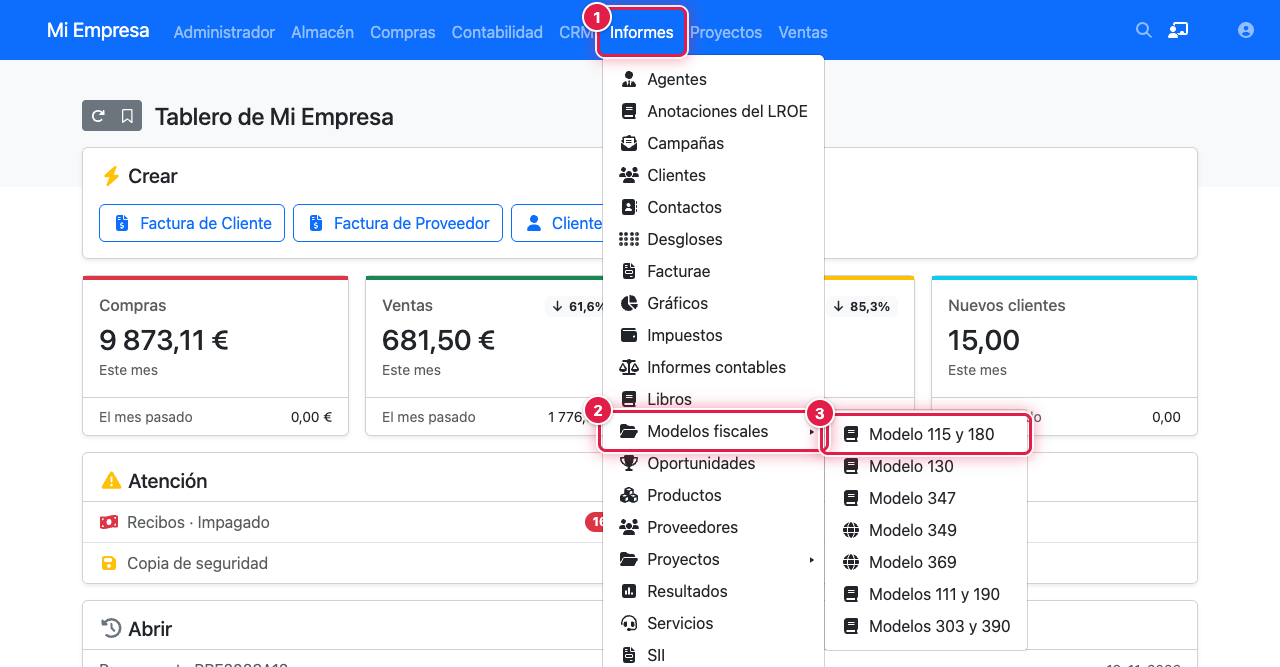
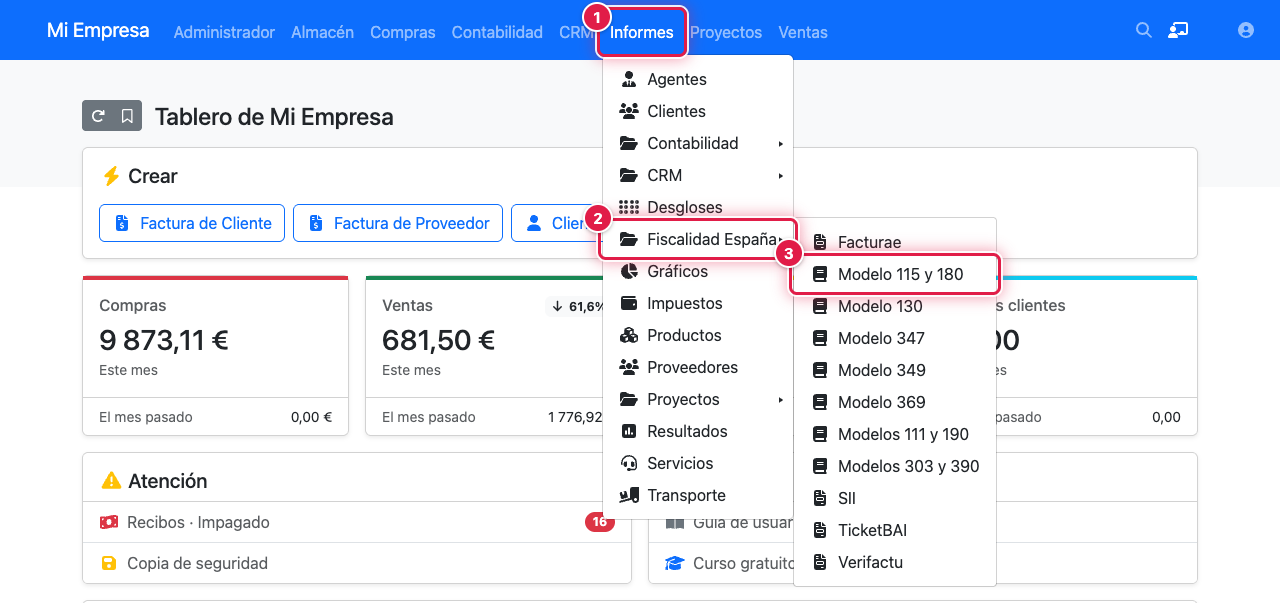
feat(modelo115): mover el informe al submenú Fiscalidad España
- El controlador usa el submenú taxation-spain y se añade su traducción.
- README, documentación y captura del menú nombran Informes → Fiscalidad España.

diff --git a/Controller/Modelo115.php b/Controller/Modelo115.php
@@ -125,7 +125,7 @@ class Modelo115 extends Controller
     }
 
     /**
-     * Datos de la página: menú Informes, submenú de modelos fiscales.
+     * Datos de la página: menú Informes, submenú Fiscalidad España.
      *
      * @return array
      */
@@ -133,7 +133,7 @@ class Modelo115 extends Controller
     {
         $data = parent::getPageData();
         $data['menu'] = 'reports';
-        $data['submenu'] = 'tax-models';
+        $data['submenu'] = 'taxation-spain';
         $data['title'] = 'model-115-180';
         $data['icon'] = 'fa-solid fa-book';
         return $data;

diff --git a/Doc/Dev/api-modelos-115-180.md b/Doc/Dev/api-modelos-115-180.md
@@ -1,4 +1,4 @@
-El plugin Modelo115 expone los datos de los modelos 115 (retenciones trimestrales de alquileres) y 180 (resumen anual) en dos endpoints de solo lectura de la API REST. Calculan con las mismas clases que la pantalla del plugin, así que las cifras coinciden con las que se ven en **menú Informes** → **Modelos fiscales** → **Modelo 115 y 180**. No crean asientos, no guardan datos y no generan los ficheros de la AEAT.
+El plugin Modelo115 expone los datos de los modelos 115 (retenciones trimestrales de alquileres) y 180 (resumen anual) en dos endpoints de solo lectura de la API REST. Calculan con las mismas clases que la pantalla del plugin, así que las cifras coinciden con las que se ven en **menú Informes** → **Fiscalidad España** → **Modelo 115 y 180**. No crean asientos, no guardan datos y no generan los ficheros de la AEAT.
 
 - `GET /api/3/modelo115`: un trimestre. Devuelve el resumen, las casillas y el resultado a ingresar.
 - `GET /api/3/modelo180`: el año completo. Devuelve el resumen, tres casillas y el detalle por arrendador e inmueble. Es una declaración informativa y su `resultado` es `null`.

diff --git a/README.md b/README.md
@@ -2,7 +2,7 @@
 Plugin para FacturaScripts con los modelos 115 y 180 para la hacienda española.
 - https://facturascripts.com/plugins/modelo115
 
-Muestra los datos de ambos modelos desde el menú **Informes → Modelos fiscales → Modelo 115 y 180**, con el detalle de las facturas del periodo, totales, impresión en PDF y descarga del fichero de presentación de la AEAT (.115 en los trimestres y del 180 en el anual).
+Muestra los datos de ambos modelos desde el menú **Informes → Fiscalidad España → Modelo 115 y 180**, con el detalle de las facturas del periodo, totales, impresión en PDF y descarga del fichero de presentación de la AEAT (.115 en los trimestres y del 180 en el anual).
 
 Solo se incluyen en el cálculo las facturas cuya retención se contabiliza en una subcuenta con la cuenta especial **IRPFA** (IRPF para alquileres); las retenciones de profesionales y trabajadores corresponden al modelo 111 y quedan fuera. Si el ejercicio no tiene ninguna subcuenta IRPFA, se incluyen todas las facturas con retención.
 

diff --git a/Doc/User/como-hacer-el-modelo-115.md b/Doc/User/como-hacer-el-modelo-115.md
@@ -15,10 +15,10 @@ Si no ves el menú del paso 3 de la sección siguiente, activa el plugin Modelo1
 ## 📋 Cómo se rellena
 
 1. Pulsa el menú **Informes**.
-2. Pasa el ratón por **Modelos fiscales**.
+2. Pasa el ratón por **Fiscalidad España**.
 3. Elige **Modelo 115 y 180**.
 
-![Menú Informes con el submenú Modelos fiscales y la opción Modelo 115 y 180 marcada](../Assets/como-hacer-el-modelo-115/01-menu-modelo-115-y-180.png)
+![Menú Informes con el submenú Fiscalidad España y la opción Modelo 115 y 180 marcada](../Assets/como-hacer-el-modelo-115/01-menu-modelo-115-y-180.png)
 
 Ahora elige qué declaración quieres ver. Al abrir la pantalla aparecen el ejercicio del año en curso y el trimestre en curso.
 

diff --git a/Doc/Context/01-arquitectura.md b/Doc/Context/01-arquitectura.md
@@ -21,7 +21,7 @@ Piezas:
   avisos (claves de traducción con parámetros).
 - `Lib/Modelo115ApiTrait` y `Lib/Modelo115FileTrait`: código común de las dos APIs (empresa, ejercicio, retención,
   facturas, avisos, formato de fechas e importes) y de los dos ficheros (formato de campos de la AEAT).
-- `Controller/Modelo115`: pantalla en Informes > Modelos fiscales. Acciones `print` (PDF), `download` (.115) y
+- `Controller/Modelo115`: pantalla en Informes > Fiscalidad España. Acciones `print` (PDF), `download` (.115) y
   `download-180`.
 - `Controller/ApiModelo115` y `Controller/ApiModelo180`: endpoints de solo lectura (ver
   [`05-api.md`](05-api.md)).

diff --git a/Doc/User/como-hacer-el-modelo-180.md b/Doc/User/como-hacer-el-modelo-180.md
@@ -12,7 +12,7 @@ Tienes que presentarlo una vez al año si has pagado alquileres de inmuebles urb
 
 ## 📋 Cómo se rellena
 
-Entra en **menú Informes** → **Modelos fiscales** → **Modelo 115 y 180** y:
+Entra en **menú Informes** → **Fiscalidad España** → **Modelo 115 y 180** y:
 
 1. Elige el **Ejercicio**.
 2. Elige el **Periodo** **Anual (Modelo 180)**.
